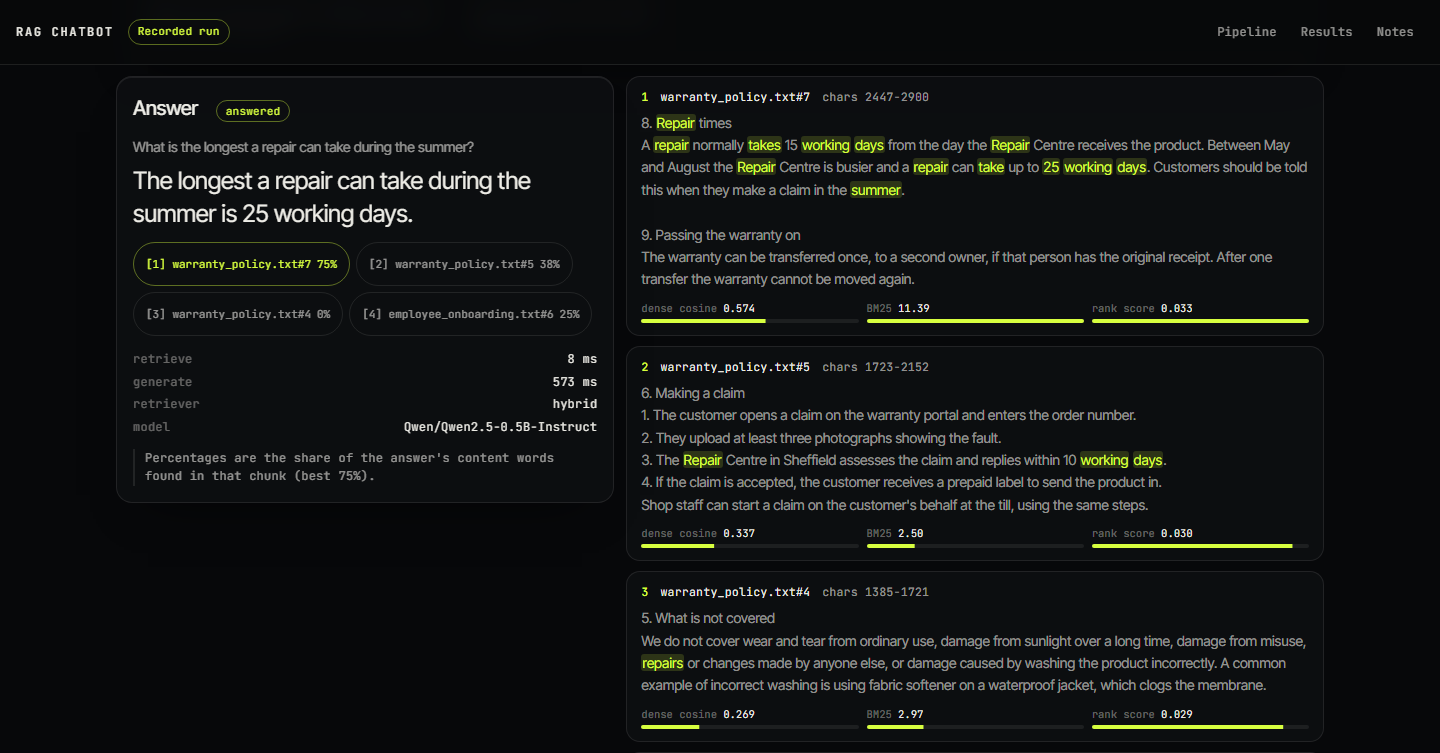
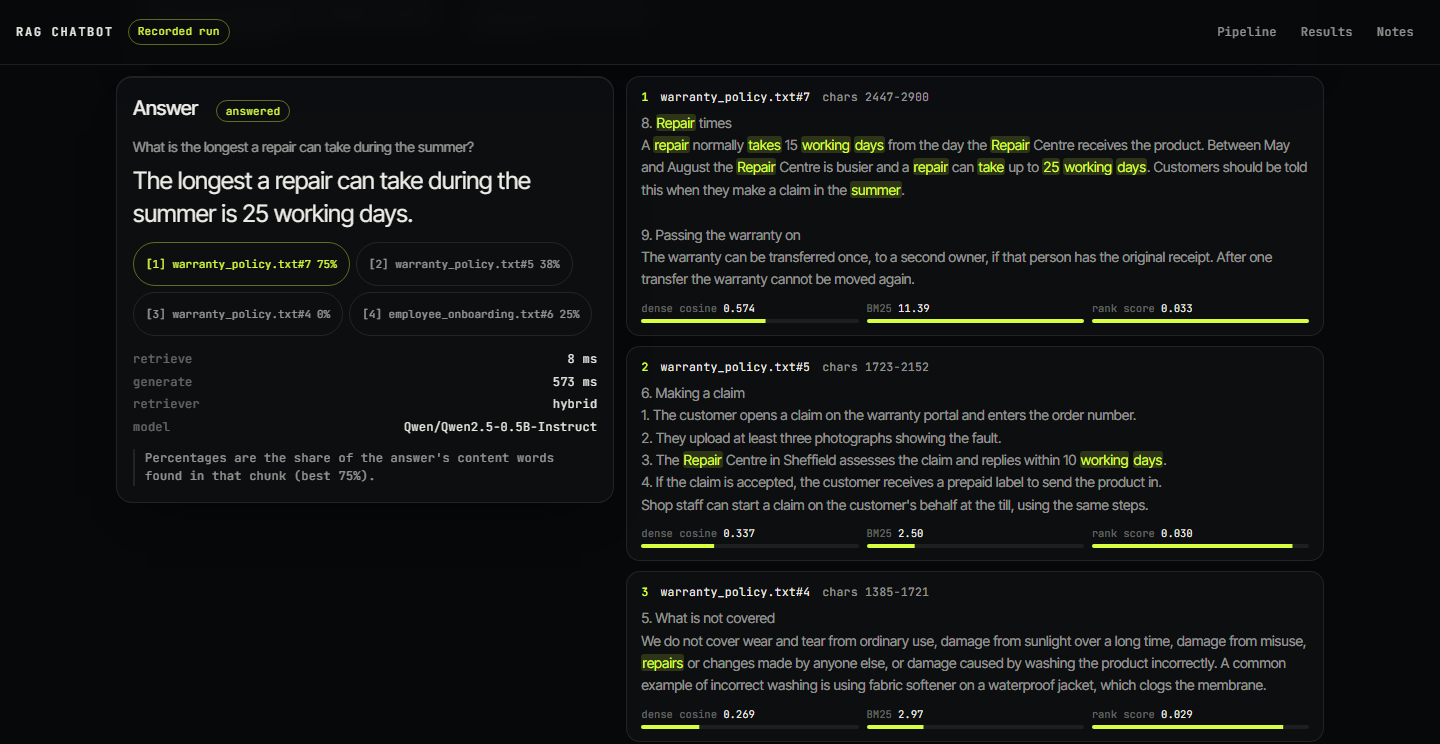
README: Docker facts, setup chunk size, intro with measured abstention range, gate 0.55 row, API additions; re-shoot screenshots at card boundaries

diff --git a/scripts/check_numbers.py b/scripts/check_numbers.py
@@ -56,7 +56,7 @@ def b_setup(d: dict) -> str:
     m = d["retrieval"]["meta"]
     q, c = m["questions"], m["corpus"]
     gens = [g for g in d["gen"].values() if g["meta"]["llm"]["dtype"]]
-    g0 = gens[0]["meta"]
+    g0 = d["gen"]["qwen2.5-0.5b-instruct_c500"]["meta"]
     return (
         f"The corpus is {c['documents']} invented policy documents ({c['words']:,} words, {c['characters']:,} characters) "
         f"for a fictional outdoor-gear retailer. The question set has {q['total']} questions: {q['answerable']} answerable "
@@ -65,7 +65,7 @@ def b_setup(d: dict) -> str:
         f"Retrieval ran on {m['device']} with {short(m['embedder']['model'])} embeddings (revision `{m['embedder']['revision'][:8]}`); "
         f"generation ran on {g0['device']} in {g0['llm']['dtype']} with greedy decoding and at most {g0['max_new_tokens']} new tokens, "
         f"retrieving the top {g0['retrieval']['k']} chunks with the {g0['retrieval']['retriever']} retriever at "
-        f"{g0['retrieval']['chunk_size']}-character chunks unless a row says otherwise. Dates: retrieval {m['date']}, "
+        f"{g0['retrieval']['chunk_size']}-character chunks unless a table says otherwise. Dates: retrieval {m['date']}, "
         f"generation {', '.join(sorted({g['meta']['date'] for g in gens}))}."
     )
 
@@ -156,7 +156,12 @@ def b_gate(d: dict) -> str:
     key = next(k for k in d["gen"] if "0.5b" in k and k.endswith("c500"))
     g = d["gen"][key]
     m = g["meta"]["gate"]
-    sweep = [s for s in g["gate_sweep"] if round(s["threshold"] * 100) % 10 == 0]
+    chosen = round(m["threshold"] * 100)
+    sweep = [
+        s
+        for s in g["gate_sweep"]
+        if round(s["threshold"] * 100) % 10 == 0 or round(s["threshold"] * 100) == chosen
+    ]
     out = [
         f"Threshold tuned on the {m['n_half_a']} {m['tuned_on']}; statistic: {m['statistic']}. Chosen threshold: **{m['threshold']:.2f}**.\n",
         '| Threshold | "I don\'t know" on unanswerable (all 25) | False "I don\'t know" on answerable (all 75) |',
@@ -261,6 +266,42 @@ def b_headline(d: dict) -> str:
     return "\n".join(lines)
 
 
+def b_intro(d: dict) -> str:
+    h = headline_facts(d)
+    lo = min(
+        h["g05"]["rag"]["summary"]["abstained_on_unanswerable"]["rate"],
+        h["g15"]["rag"]["summary"]["abstained_on_unanswerable"]["rate"],
+    )
+    hi = max(
+        h["g05"]["rag"]["summary"]["abstained_on_unanswerable"]["rate"],
+        h["g15"]["rag"]["summary"]["abstained_on_unanswerable"]["rate"],
+    )
+    return (
+        "Question answering over your own documents, with the answer tied to the text it came from. It ingests PDF, TXT and DOCX "
+        "files, splits them into chunks, embeds them into a FAISS index, retrieves the best chunks for a question (dense, BM25 or a "
+        'fusion of both), and instructs a language model to answer from those chunks only and to say "I don\'t know" when they do '
+        f"not contain the answer (measured below: it does so on {pct(lo)}% to {pct(hi)}% of unanswerable questions, depending on the "
+        "model). Python, LangChain, FAISS, FastAPI, Streamlit and Docker. It runs with no API key: the default embedder and "
+        "generator are small open models that run on a laptop."
+    )
+
+
+def b_chunk_bullet(d: dict) -> str:
+    r = {(x["chunk_size"], x["retriever"]): x for x in d["retrieval"]["rows"]}
+    g05 = d["gen"]["qwen2.5-0.5b-instruct_c500"]["configs"]["rag"]["summary"][
+        "correct_on_answerable"
+    ]
+    g10 = d["gen"]["qwen2.5-0.5b-instruct_c1000"]["configs"]["rag"]["summary"][
+        "correct_on_answerable"
+    ]
+    return (
+        "- **500-character chunks are the default because of the generator, not the retriever.** Larger chunks retrieve about as well "
+        f"(hybrid MRR {f3(r[(1000, 'hybrid')]['mrr'])} at 1,000 characters against {f3(r[(500, 'hybrid')]['mrr'])} at 500; "
+        f"hybrid Recall@3 {pct(r[(1000, 'hybrid')]['recall']['3'])}% against {pct(r[(500, 'hybrid')]['recall']['3'])}%), but the 0.5B model "
+        f"answers more questions correctly from 500-character chunks ({g05['k']}/{g05['n']}) than from 1,000-character ones ({g10['k']}/{g10['n']})."
+    )
+
+
 def b_lead(d: dict) -> str:
     h = headline_facts(d)
     r05 = h["g05"]["rag"]["summary"]
@@ -275,6 +316,8 @@ def b_lead(d: dict) -> str:
 
 
 BLOCKS = {
+    "intro": b_intro,
+    "chunk_bullet": b_chunk_bullet,
     "lead": b_lead,
     "setup": b_setup,
     "retrieval": b_retrieval,

diff --git a/scripts/check_ui.py b/scripts/check_ui.py
@@ -98,7 +98,7 @@ SMALL = """() => {
 }"""
 
 
-def shoot(page, path: Path, scroll_sel: str, last_sel: str, pad: int = 12) -> None:
+def shoot(page, path: Path, scroll_sel: str, last_sel: str, pad: int = 3) -> None:
     """Scroll an element to just under the sticky bar and capture down to the bottom of another element,
     so the picture ends on a card boundary and nothing is clipped or hidden under the bar."""
     page.evaluate("document.documentElement.style.scrollBehavior = 'auto'")

diff --git a/README.md b/README.md
@@ -2,7 +2,9 @@
 
 [![ci](https://github.com/Aditya2616/LLM-Powered-RAG-Chatbot/actions/workflows/ci.yml/badge.svg)](https://github.com/Aditya2616/LLM-Powered-RAG-Chatbot/actions/workflows/ci.yml) [![licence: MIT](https://img.shields.io/badge/licence-MIT-d7ff3f.svg)](LICENSE)
 
-Question answering over your own documents, with the answer tied to the text it came from. It ingests PDF, TXT and DOCX files, splits them into chunks, embeds them into a FAISS index, retrieves the best chunks for a question (dense, BM25 or a fusion of both), and has a language model answer from those chunks only, saying "I don't know" when they do not contain the answer. Python, LangChain, FAISS, FastAPI, Streamlit and Docker. It runs with no API key: the default embedder and generator are small open models that run on a laptop.
+<!-- BEGIN intro -->
+Question answering over your own documents, with the answer tied to the text it came from. It ingests PDF, TXT and DOCX files, splits them into chunks, embeds them into a FAISS index, retrieves the best chunks for a question (dense, BM25 or a fusion of both), and instructs a language model to answer from those chunks only and to say "I don't know" when they do not contain the answer (measured below: it does so on 56.0% to 72.0% of unanswerable questions, depending on the model). Python, LangChain, FAISS, FastAPI, Streamlit and Docker. It runs with no API key: the default embedder and generator are small open models that run on a laptop.
+<!-- END intro -->
 
 <!-- BEGIN lead -->
 Headline result, on the 100 questions bundled with the repository (a small invented corpus): Qwen2.5-0.5B-Instruct answers 52/75 (69.3%) of the answerable questions correctly and says "I don't know" on 14/25 (56.0%) of the unanswerable ones; Qwen2.5-1.5B-Instruct answers 70/75 (93.3%) and declines 18/25 (72.0%). Declining reliably is the weak spot, and the results below say where.
@@ -10,7 +12,7 @@ Headline result, on the 100 questions bundled with the repository (a small inven
 
 The part I care about is the "I don't know" path, so the repository ships a small corpus and a question set (answerable and unanswerable) and reports how often the system answers correctly, declines when it should, and declines when it should not.
 
-![The viewer: chunks of the documents as points in embedding space, a question, and the four chunks retrieved for it, with their scores](docs/assets/desktop-answered-map.png)
+![The viewer at the Generate step: chunks of the documents as points in embedding space, with the question's query point joined to the four numbered chunks retrieved for it](docs/assets/desktop-answered-map.png)
 
 | An answerable question | A question the documents cannot answer |
 |---|---|
@@ -54,10 +56,10 @@ Everything is in `src/rag_chatbot/`: `loaders.py` (loading, chunking, upload che
 - **Small samples.** 75 answerable and 25 unanswerable questions. Tables give counts as k/n; at 75 questions a 95% Wilson interval is roughly plus or minus 10 percentage points (the intervals are in the `results/*.json` files), and a difference of one or two questions is noise.
 - **Answer correctness is a word match.** An answer counts as correct if it contains every required fact (a number, a name) after normalising currency and punctuation. It is strict about wording and blind to meaning, so it can fail a right answer phrased differently and pass a wrong answer that happens to include the right words. "Grounded" is likewise lexical: the share of the answer's words that appear in the retrieved text. Neither is a human judgement.
 - **The generator is tiny.** The default model has 0.5 billion parameters. It follows "answer only from the context, otherwise say I don't know" only partly, and the tables show where it does not.
-- **Hosted providers were not run.** The OpenAI-compatible and Gemini adapters are tested against a stubbed HTTP transport. They have not been run against a real service, because I have no keys. The Docker image has not been built (no Docker on the machine I developed on).
+- **Hosted providers were not run.** The OpenAI-compatible and Gemini adapters are tested against a stubbed HTTP transport. They have not been run against a real service, because I have no keys. The Docker image is built and queried in CI on every push with the no-model providers, and was run once in CI with the default local models.
 
 <!-- BEGIN setup -->
-The corpus is 11 invented policy documents (5,403 words, 30,830 characters) for a fictional outdoor-gear retailer. The question set has 100 questions: 75 answerable (42 worded close to the text, 33 reworded) and 25 that the documents cannot answer (17 on a topic the documents cover but a detail they do not, 8 off topic). Retrieval ran on cuda with all-MiniLM-L6-v2 embeddings (revision `1110a243`); generation ran on cuda in float16 with greedy decoding and at most 160 new tokens, retrieving the top 4 chunks with the hybrid retriever at 1000-character chunks unless a row says otherwise. Dates: retrieval 2026-11-13, generation 2026-11-13.
+The corpus is 11 invented policy documents (5,403 words, 30,830 characters) for a fictional outdoor-gear retailer. The question set has 100 questions: 75 answerable (42 worded close to the text, 33 reworded) and 25 that the documents cannot answer (17 on a topic the documents cover but a detail they do not, 8 off topic). Retrieval ran on cuda with all-MiniLM-L6-v2 embeddings (revision `1110a243`); generation ran on cuda in float16 with greedy decoding and at most 160 new tokens, retrieving the top 4 chunks with the hybrid retriever at 500-character chunks unless a table says otherwise. Dates: retrieval 2026-11-13, generation 2026-11-13.
 <!-- END setup -->
 
 ### Headline
@@ -75,7 +77,9 @@ Each statement below is checked against the results files by `scripts/check_numb
 
 - **Hybrid retrieval is the safest choice, not a large win.** It beats dense search on MRR at every chunk size and is within a few points of the best single retriever everywhere. On a corpus this easy the retrievers are close, and the differences are a handful of questions.
 - **The cross-encoder reranker raises MRR at every chunk size, but it barely moved the answers.** It lowers Recall@3 at 500 characters, and at that chunk size it changes the number of correct answers by at most two questions for either model, which is noise. It stays optional (`RERANKER_MODEL`) and off by default.
-- **500-character chunks are the default because of the generator, not the retriever.** Larger chunks retrieve about as well (1,000 characters has the best hybrid recall), but the 0.5B model answers more questions correctly from 500-character chunks than from 1,000-character ones.
+<!-- BEGIN chunk_bullet -->
+- **500-character chunks are the default because of the generator, not the retriever.** Larger chunks retrieve about as well (hybrid MRR 0.937 at 1,000 characters against 0.920 at 500; hybrid Recall@3 98.7% against 98.7%), but the 0.5B model answers more questions correctly from 500-character chunks (52/75) than from 1,000-character ones (45/75).
+<!-- END chunk_bullet -->
 - **Retrieval is what makes the model useful here.** Without it the 0.5B model answers almost nothing correctly, because the documents are invented and it cannot know them. The no-retrieval row is a sanity check that the questions really need the documents.
 - **The "I don't know" path is the weak spot.** Neither model declines on more than three quarters of the unanswerable questions, and the questions about a detail the documents leave out (near-miss) are declined less often than the off-topic ones. The small model is more likely to produce a plausible sentence from a chunk that mentions the topic.
 - **Adding two worked examples to the prompt made abstention worse for both models.** The examples lower the rate of "I don't know" on unanswerable questions, so the default prompt has none (`FEW_SHOT` turns them on).
@@ -183,6 +187,7 @@ Threshold tuned on the 50 even-numbered questions (half A); statistic: highest c
 | 0.30 | 32.0% | 1.3% |
 | 0.40 | 36.0% | 6.7% |
 | 0.50 | 60.0% | 16.0% |
+| 0.55 | 80.0% | 33.3% |
 | 0.60 | 84.0% | 49.3% |
 | 0.70 | 100.0% | 74.7% |
 | 0.80 | 100.0% | 93.3% |
@@ -272,7 +277,15 @@ curl -N -X POST http://localhost:8000/query/stream -H "Content-Type: application
 
 curl http://localhost:8000/health
 curl http://localhost:8000/documents
+
+# remove one document and its chunks from the index
+curl -X DELETE http://localhost:8000/documents/returns_and_refunds.txt
+
+# 2-D projection of every chunk (what the viewer draws)
+curl http://localhost:8000/index/map
 ```
+
+`rag-chatbot info` prints the embedder, generator, retriever and per-document chunk counts of the current index.
 
 A `/query` response carries the answer, whether it abstained and why (`model_declined`, `low_retrieval_score` or `empty_index`), the sources, and timings. The shape (the values here are illustrative, not a recorded response):
 
@@ -293,9 +306,9 @@ A `/query` response carries the answer, whether it abstained and why (`model_dec
 
 A source is a chunk that was put in the prompt; `support` is the share of the answer's content words found in that chunk. The service also keeps an in-memory LRU cache with a time-to-live, short per-session chat history, and a JSON-lines query log (`data/query_log.jsonl`). The index persists in `data/vector_store/`.
 
-Streamlit client (the original UI, updated to show scores and the reason for a refusal): start the service, then `pip install -e ".[streamlit]"` and `streamlit run frontend/streamlit_app.py`.
+Streamlit client (shows scores and the reason for a refusal): start the service, then `pip install -e ".[streamlit]"` and `streamlit run frontend/streamlit_app.py`.
 
-Docker: `docker build -t rag-chatbot .` then `docker run -p 8000:8000 -v rag-data:/data -v rag-models:/models rag-chatbot`. The image installs CPU PyTorch and downloads the models on first use. It has not been built or run.
+Docker: `docker build -t rag-chatbot .` then `docker run -p 8000:8000 -v rag-data:/data -v rag-models:/models rag-chatbot`. The image installs CPU PyTorch and downloads the models on first use. CI builds the image and queries the running container (see `.github/workflows/ci.yml`).
 
 ## Reproduce
 
@@ -314,7 +327,7 @@ pytest -m slow              # loads the real models
 ruff check .
 ```
 
-The fast suite uses a hashing embedder and scripted generators, so it needs neither torch nor a download; that is what CI runs. The interface check (`python scripts/check_ui.py --live --shots docs/assets`, needs `pip install -e ".[check]"` and `playwright install chromium`) loads the page at 1440x900 and 390x844 and fails on console errors, horizontal scroll or touch targets under 44 px.
+The fast suite uses a hashing embedder and scripted generators, so it needs neither torch nor a download; that is what CI runs; CI also builds the Docker image and queries the running container. The interface check (`python scripts/check_ui.py --live --shots docs/assets`, needs `pip install -e ".[check]"` and `playwright install chromium`) loads the page at 1440x900 and 390x844 and fails on console errors, horizontal scroll or touch targets under 44 px.
 
 ## Layout
 
